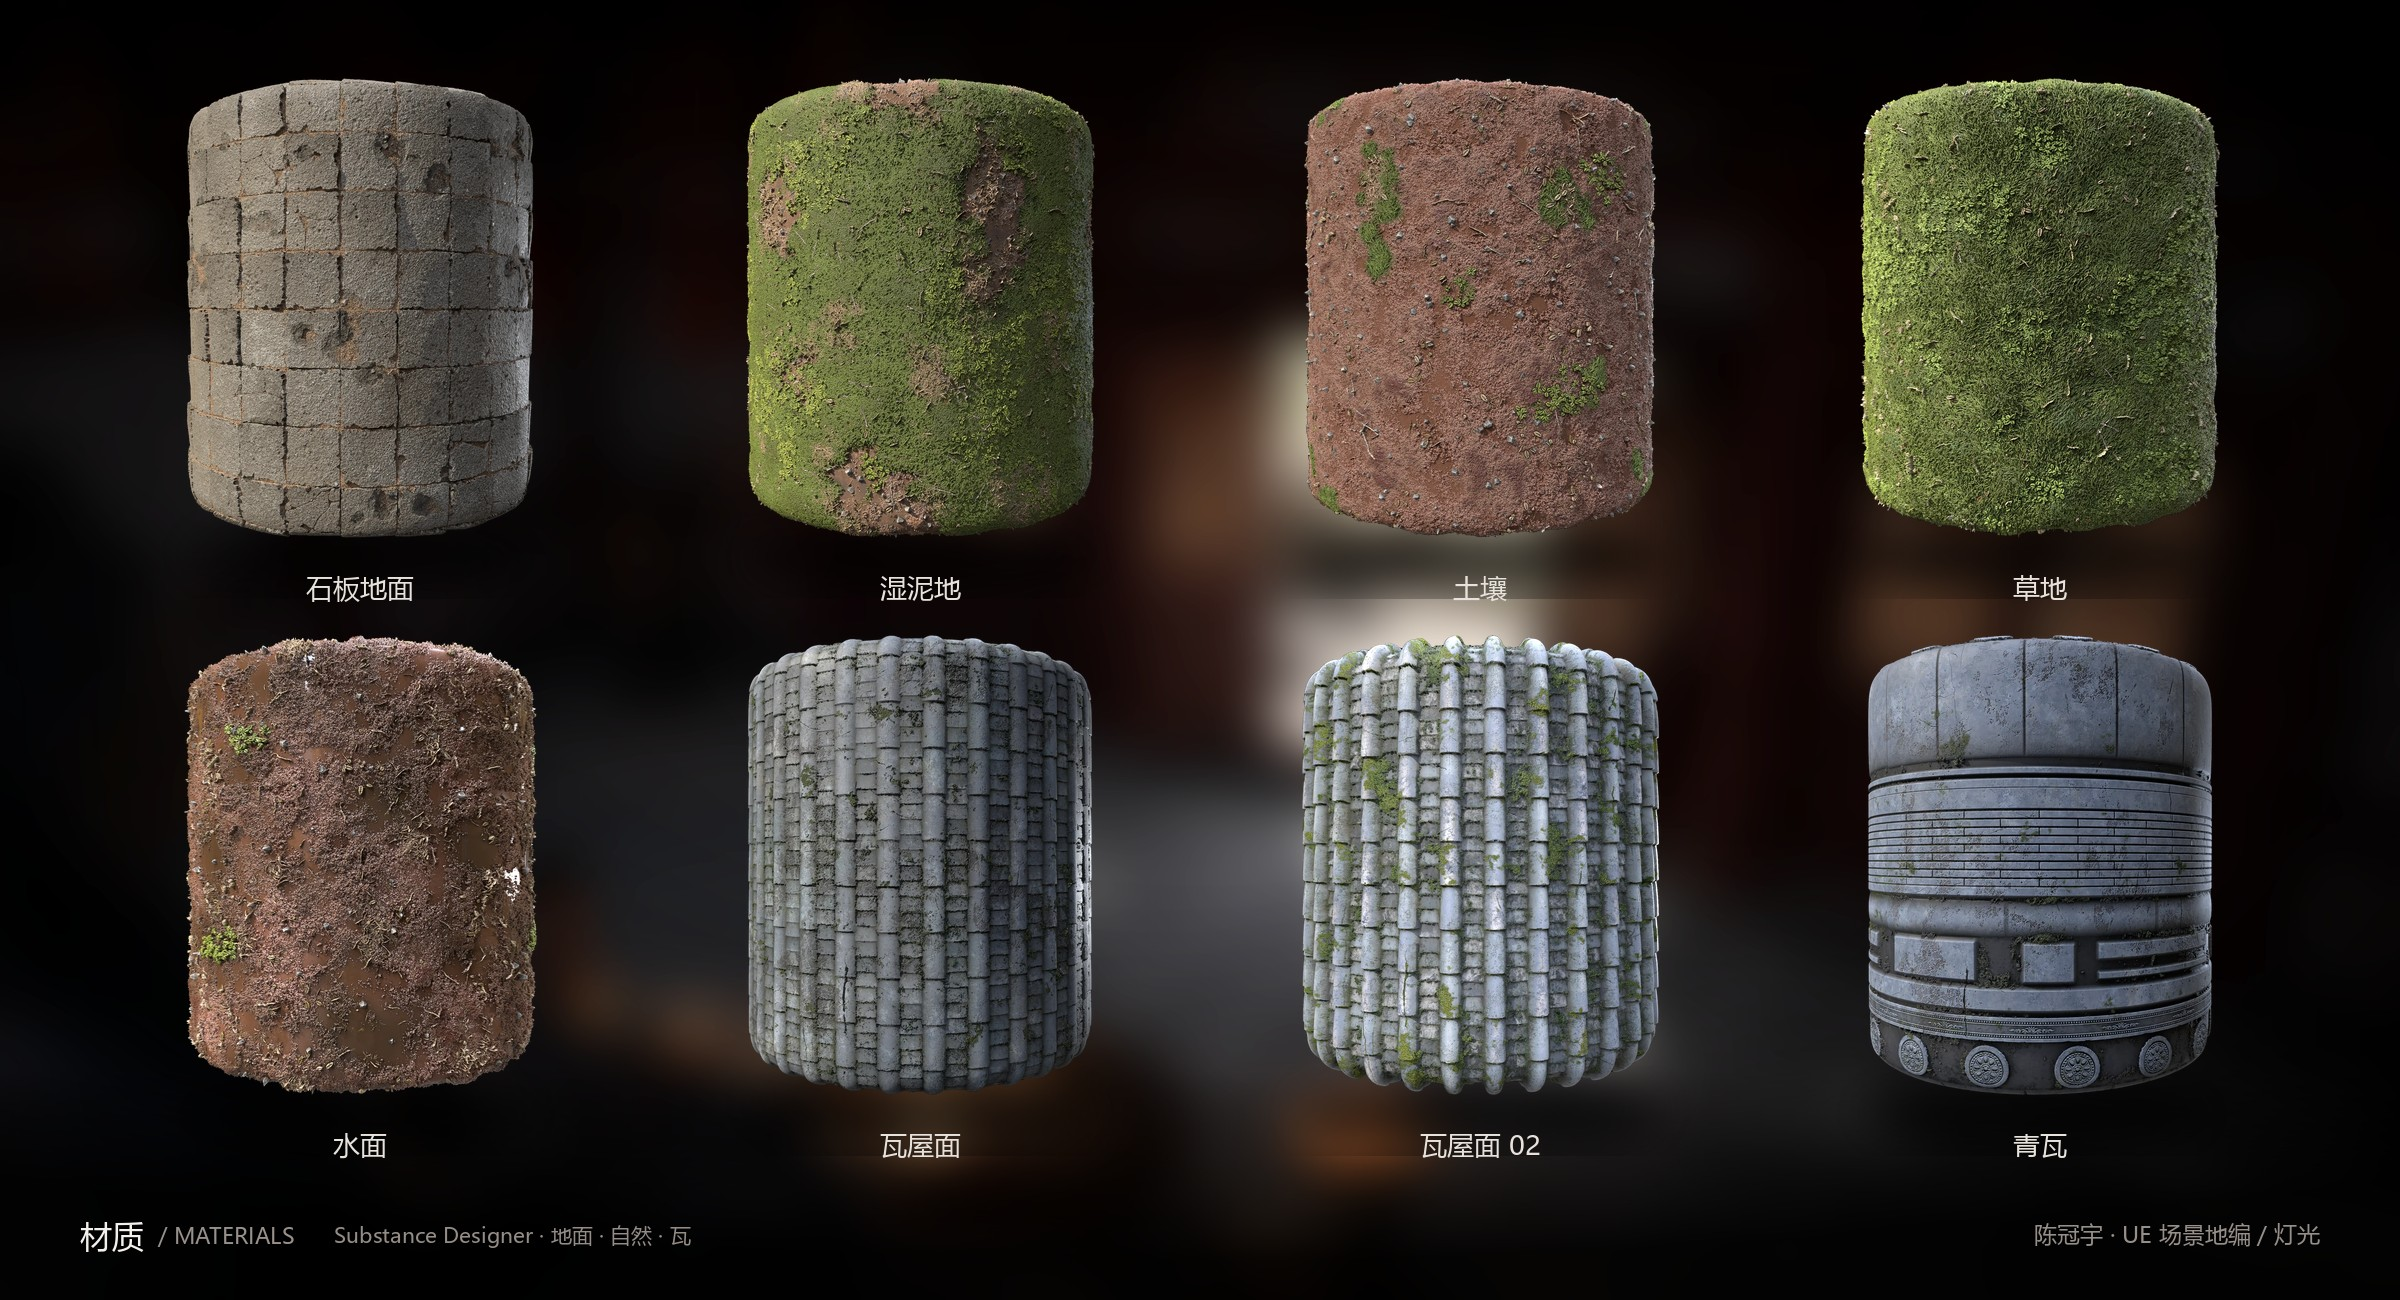
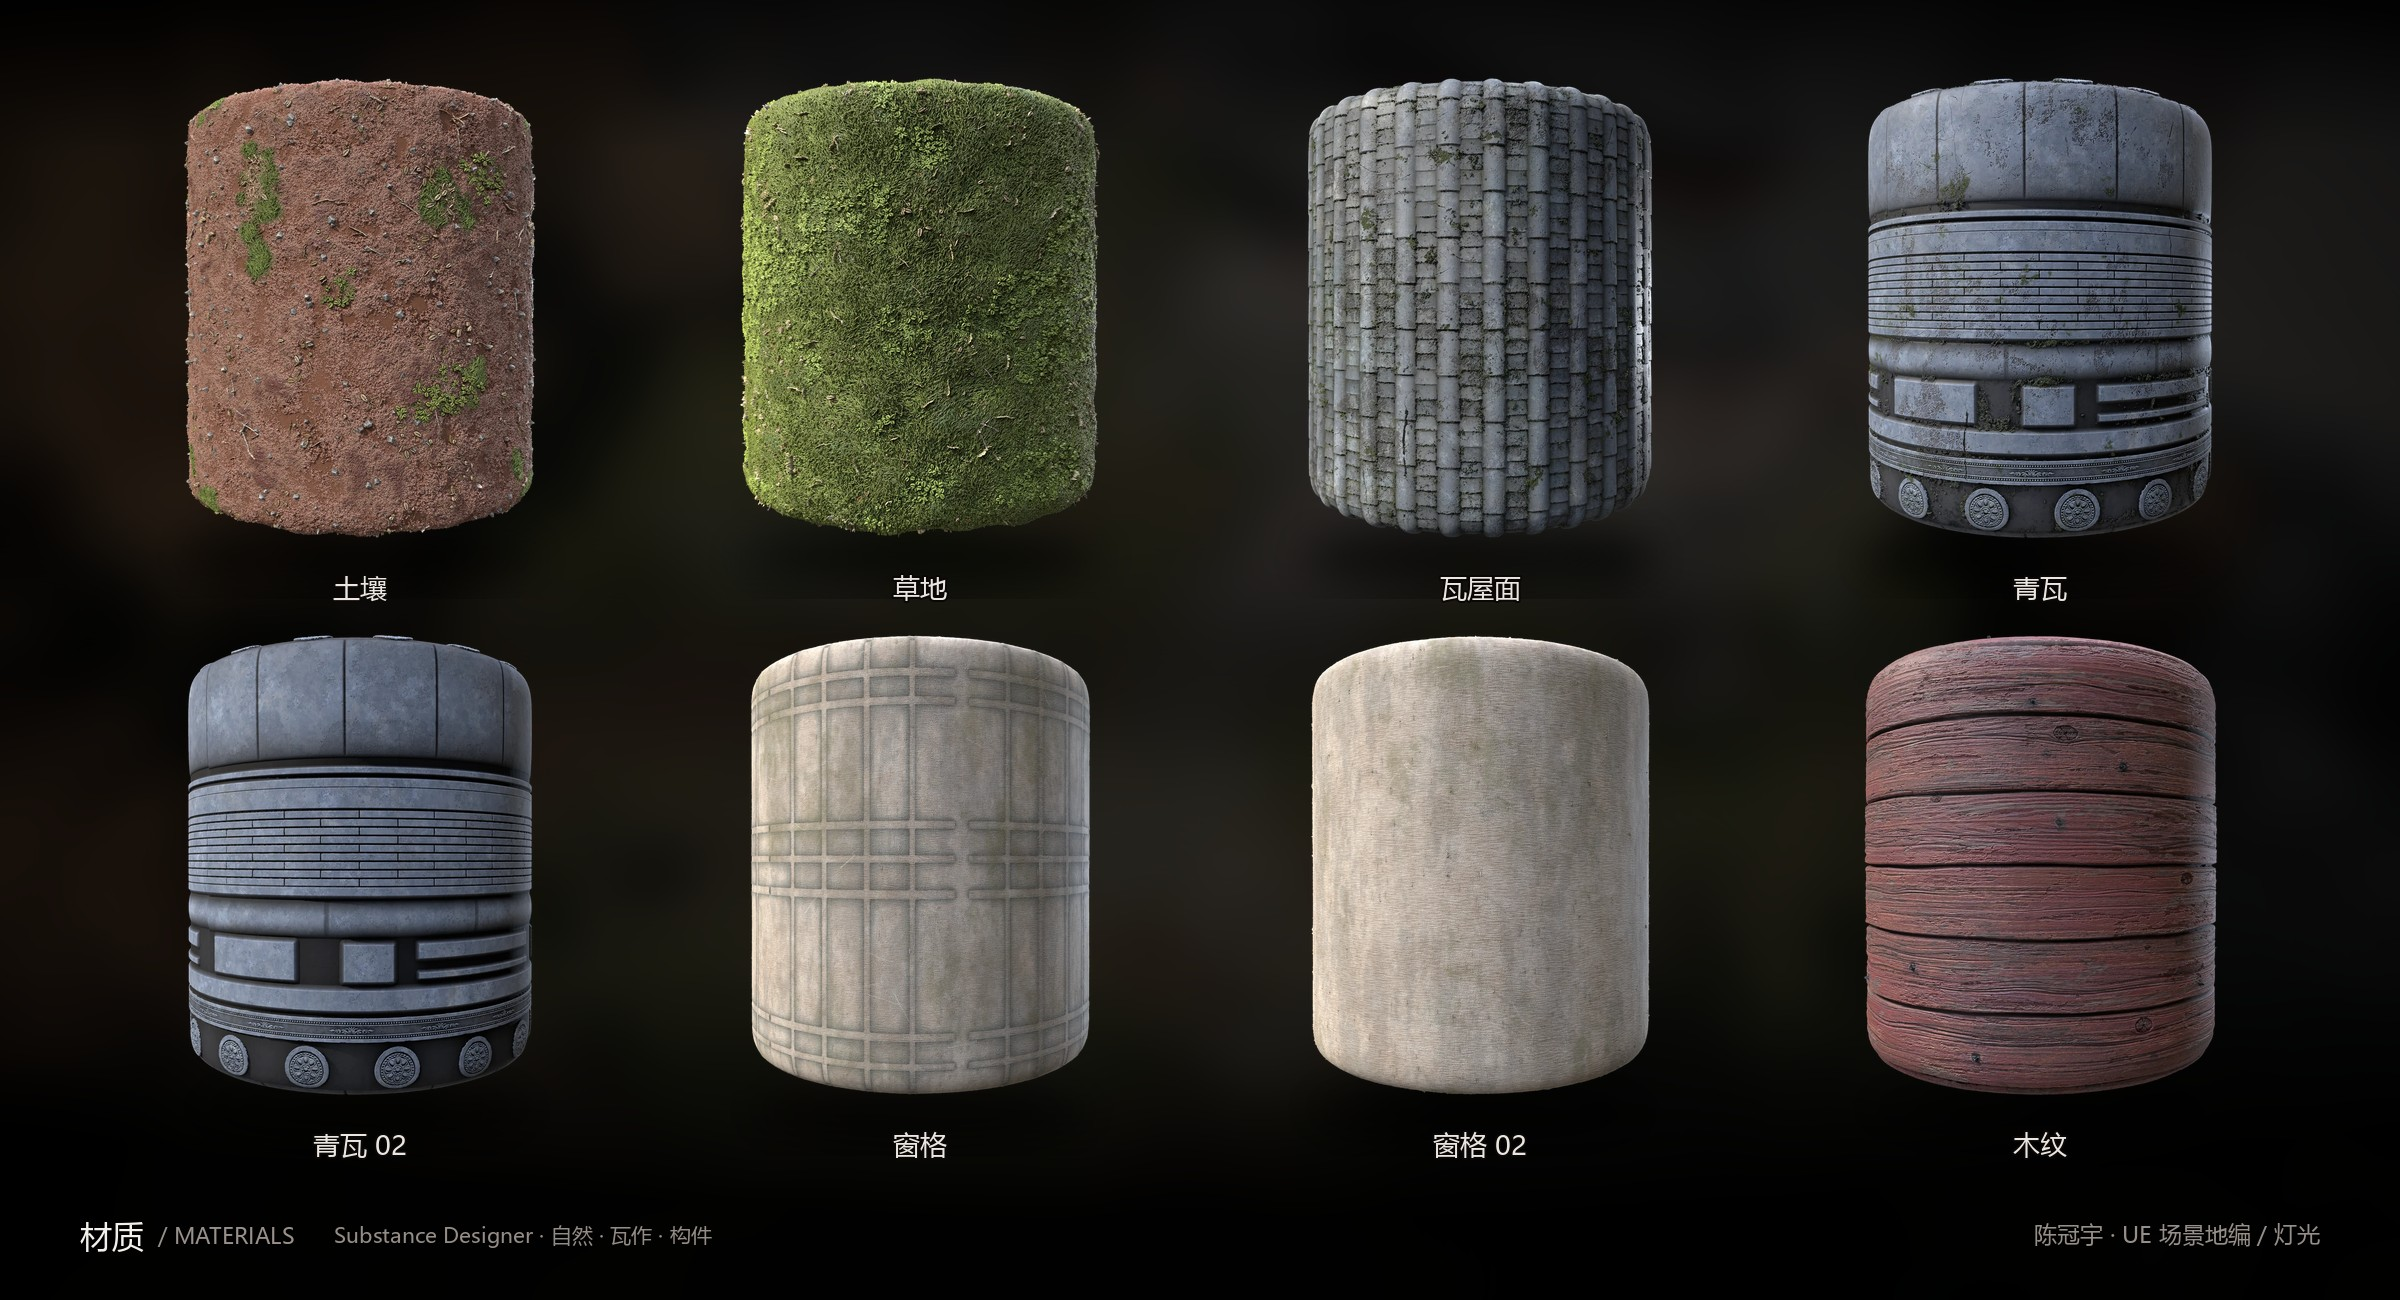
材质 20 组：三张换用 00021/00022/00030 背景并去接缝，4 条精选改为红漆墙/粗石墙/水面/瓦屋面02，其余 16 按类型排序

diff --git a/resume/index.html b/resume/index.html
@@ -1541,9 +1541,9 @@ body{padding:0 !important; background:#fff !important; display:block !important;
   <div class="wpage">
     <div class="ph"><div class="ph-row"><span class="ph-n">05</span><span class="ph-t">材质 / Materials</span><span class="ph-m">程序化材质 · 20 组 · 4K</span></div>
       <div class="ph-resp">Substance Designer 全节点搭建：砌筑石材、涂装、地面、植被、瓦作与木作，全部 4K 无缝输出，直接进引擎。统一以圆柱体测试，保证各材质在曲面上仍保持细节密度与尺度一致。</div></div>
-    <div class="band matband" style="margin-top:0"><img src="../assets/mat8_1.jpg" alt="材质渲染 · 石材 8 组"></div>
-    <div class="band matband"><img src="../assets/mat8_2.jpg" alt="材质渲染 · 地面与自然 8 组"></div>
-    <div class="band matband"><img src="../assets/mat8_3.jpg" alt="材质渲染 · 构件 4 组"></div>
+    <div class="band matband" style="margin-top:0"><img src="../assets/mat8_1.jpg" alt="材质渲染 · 墙体与地面 8 组"></div>
+    <div class="band matband"><img src="../assets/mat8_2.jpg" alt="材质渲染 · 自然瓦作构件 8 组"></div>
+    <div class="band matband"><img src="../assets/mat8_3.jpg" alt="材质渲染 · 精选四条：红漆墙 / 粗石墙 / 水面 / 瓦屋面 02"></div>
   </div>
 </div>
 

diff --git a/index.html b/index.html
@@ -269,9 +269,9 @@ footer::before{content:'';position:absolute;left:0;top:0;width:100%;height:3px;b
       <figure class="shot"><img src="assets/kill_04.jpg" data-gallery="g4" data-i="6" loading="lazy" alt="个人作品场景"></figure>
     </div>
     <div class="stack auto nocap">
-      <figure class="shot"><img src="assets/mat8_1.jpg" data-gallery="g4" data-i="7" loading="lazy" alt="材质渲染 · 石材 8 组（红砖/红漆/石砖/粗石×3/白灰）"></figure>
-      <figure class="shot"><img src="assets/mat8_2.jpg" data-gallery="g4" data-i="8" loading="lazy" alt="材质渲染 · 地面与自然 8 组"></figure>
-      <figure class="shot"><img src="assets/mat8_3.jpg" data-gallery="g4" data-i="9" loading="lazy" alt="材质渲染 · 构件 4 组（窗格×2/木纹/青瓦）"></figure>
+      <figure class="shot"><img src="assets/mat8_1.jpg" data-gallery="g4" data-i="7" loading="lazy" alt="材质渲染 · 墙体与地面 8 组"></figure>
+      <figure class="shot"><img src="assets/mat8_2.jpg" data-gallery="g4" data-i="8" loading="lazy" alt="材质渲染 · 自然瓦作构件 8 组"></figure>
+      <figure class="shot"><img src="assets/mat8_3.jpg" data-gallery="g4" data-i="9" loading="lazy" alt="材质渲染 · 精选四条：红漆墙 / 粗石墙 / 水面 / 瓦屋面 02"></figure>
     </div>
   </article>
 
